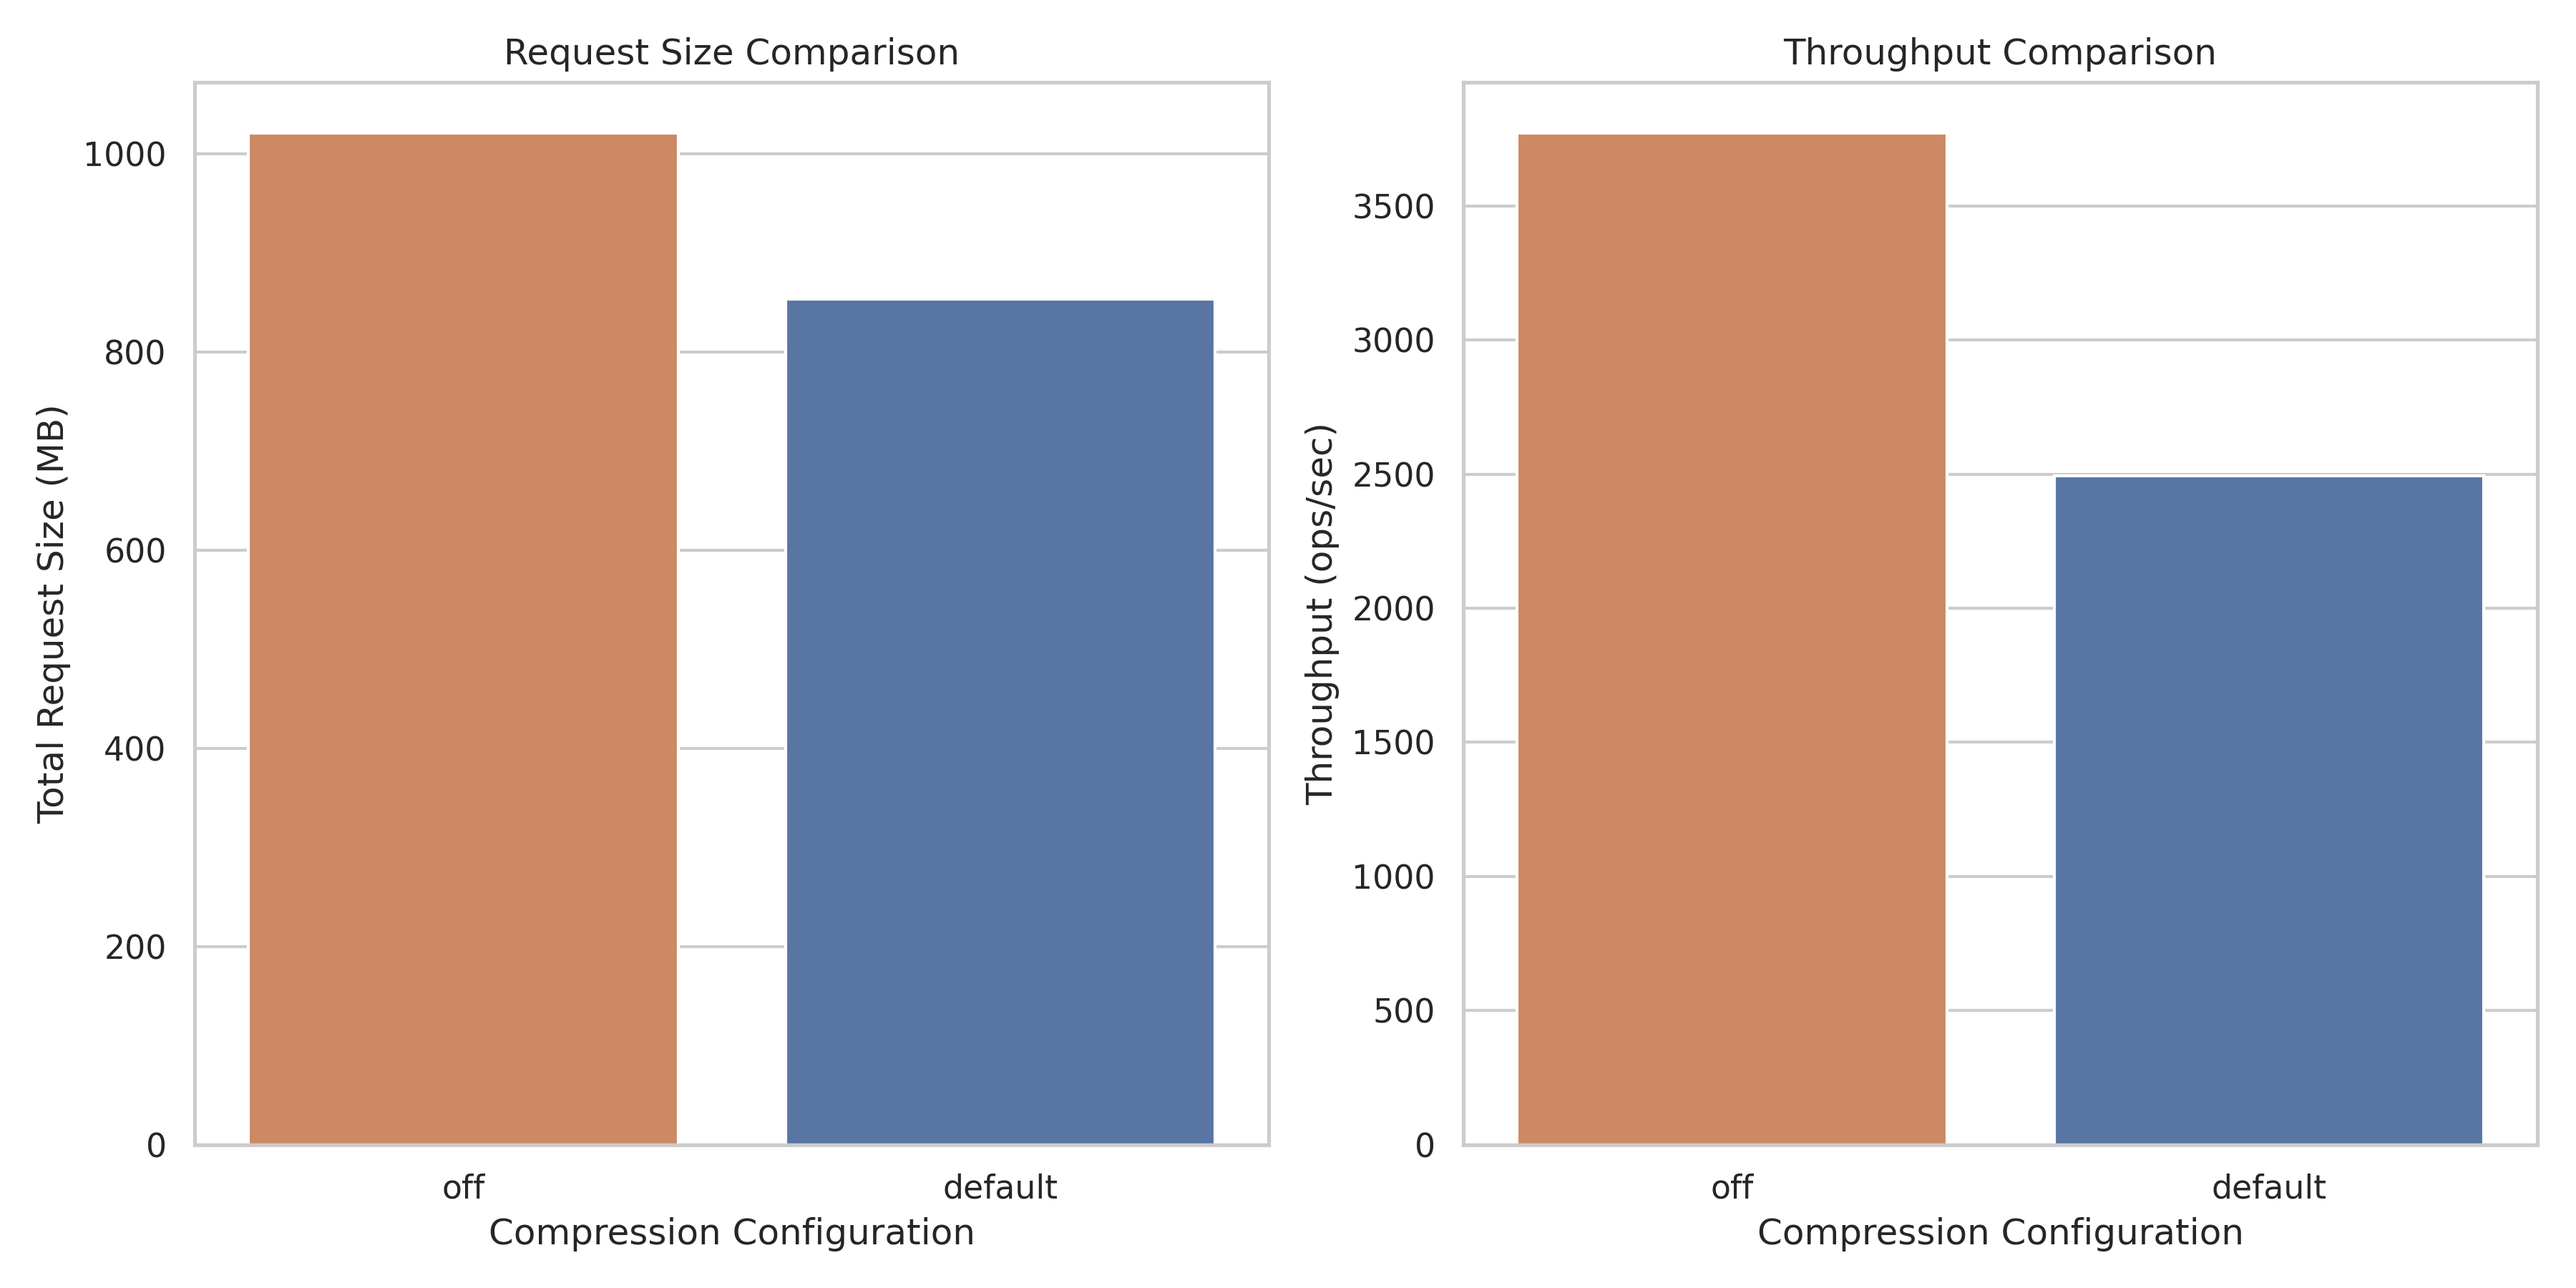
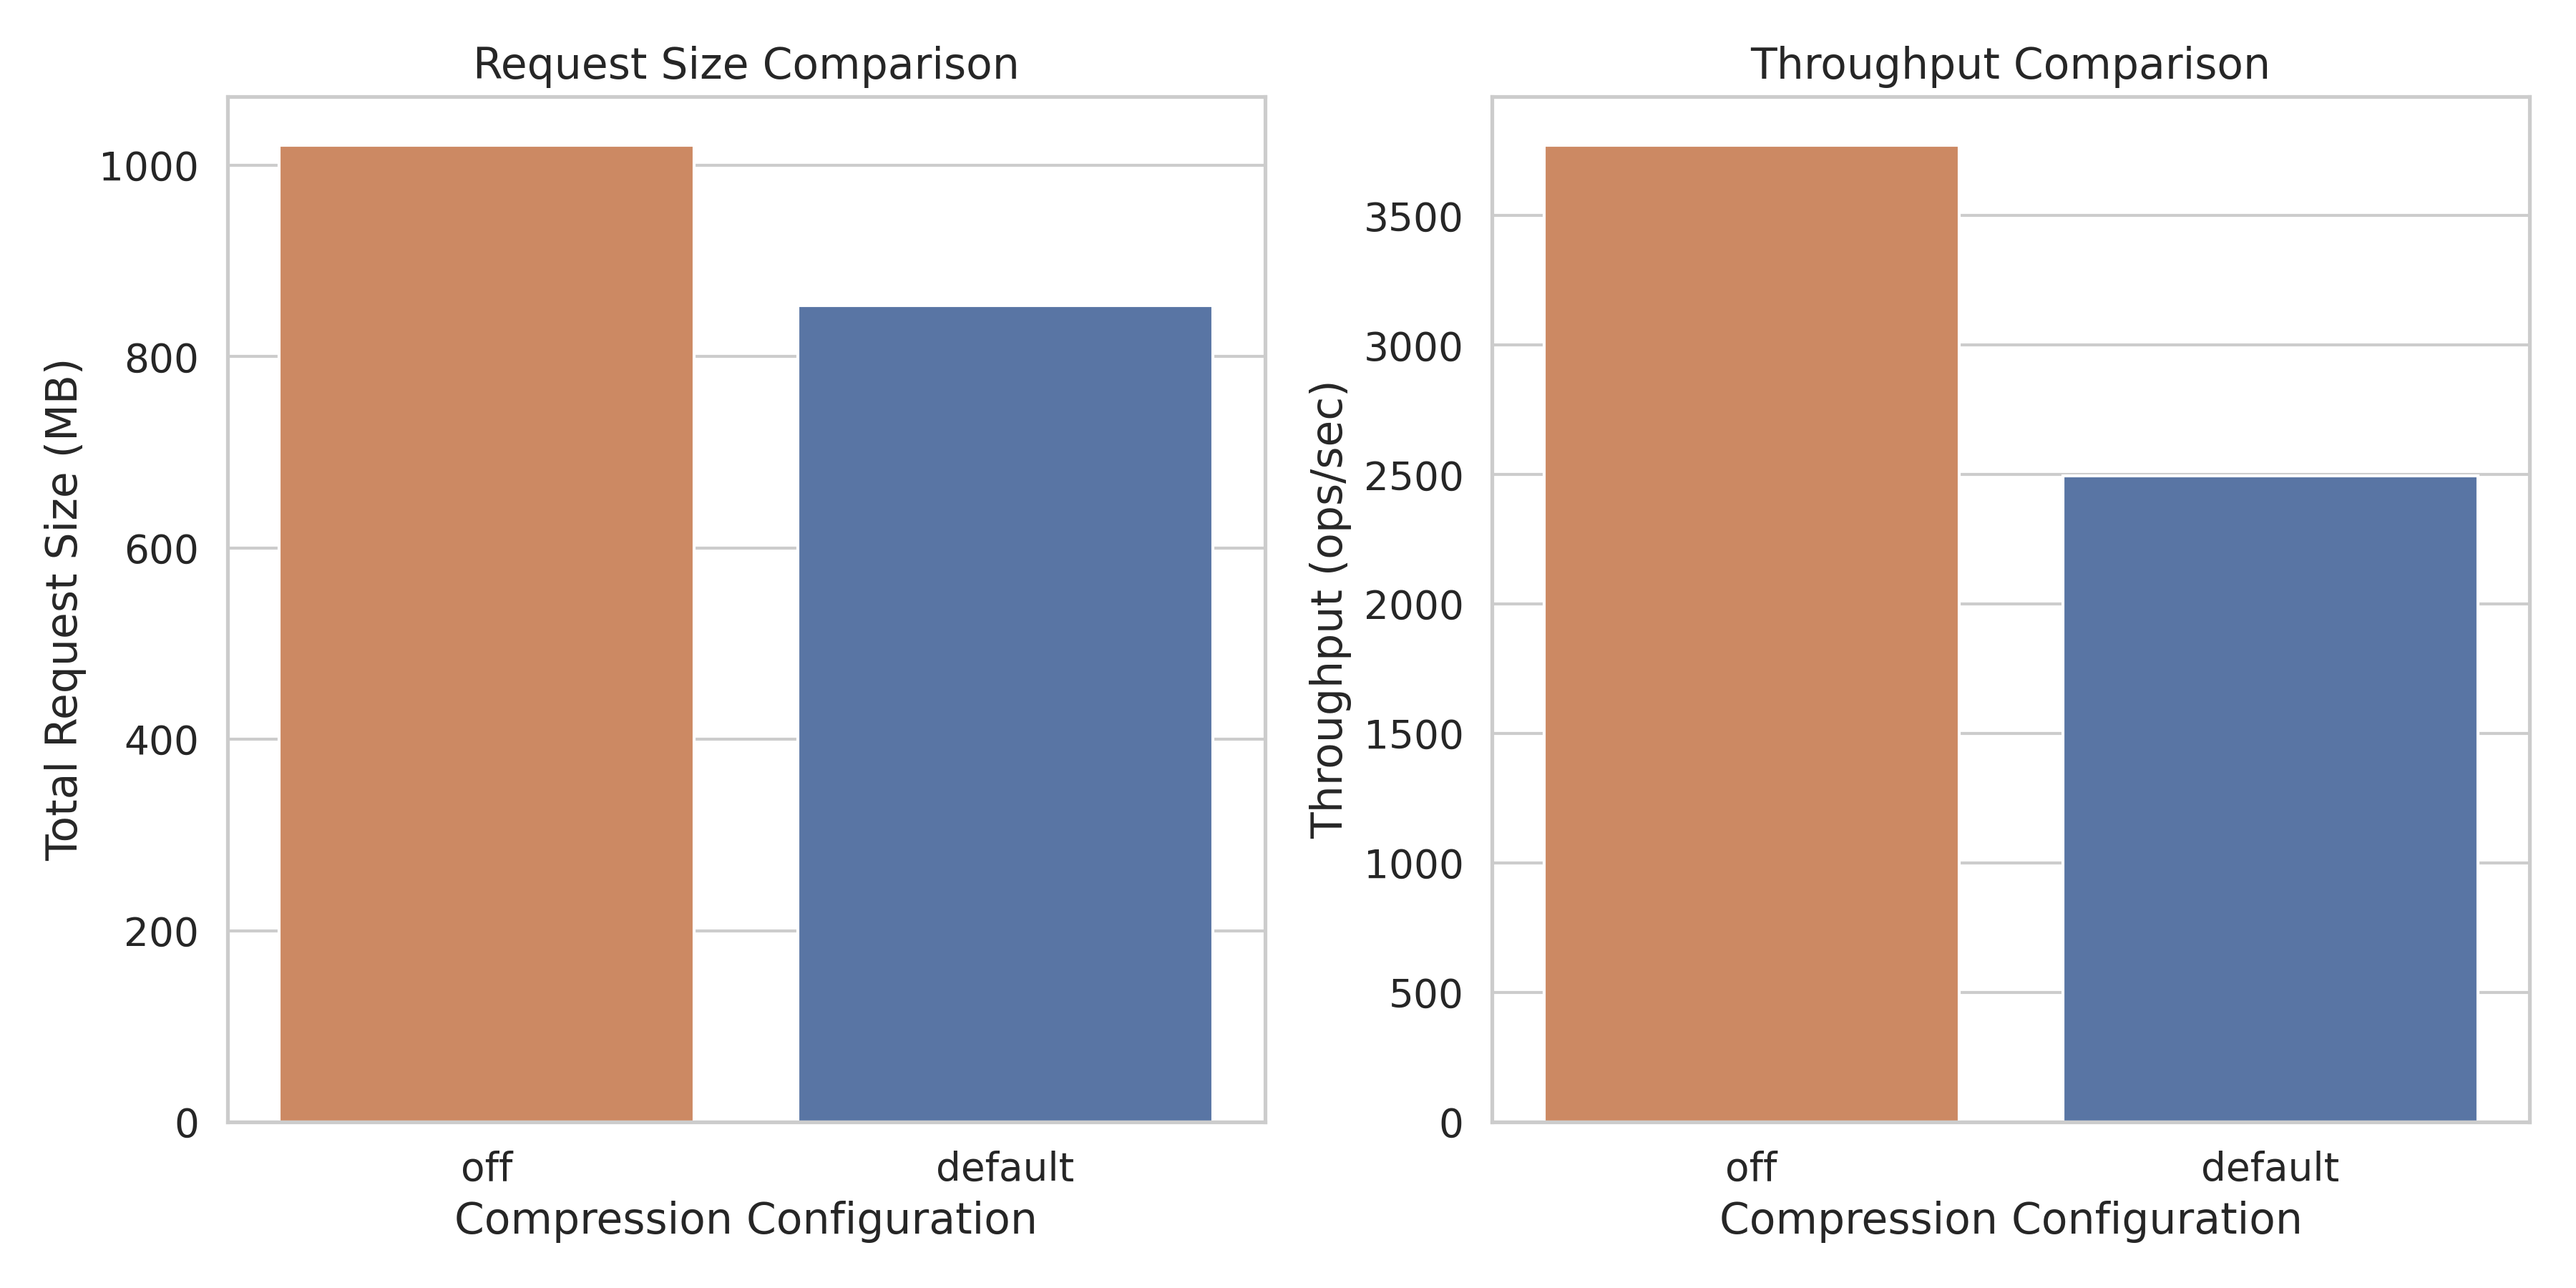
change font scale

diff --git a/scripts/graph-results.py b/scripts/graph-results.py
@@ -25,7 +25,7 @@ df['req_total_mb'] = df['req_total_bytes'] / (1024 * 1024)
 df_headers = df[df['config_name'].isin(['strip', 'no-strip'])]
 df_compression = df[df['config_name'].isin(['off', 'default'])]
 
-sns.set_theme(style="whitegrid")
+sns.set_theme(style="whitegrid", font_scale=1.2)
 base_filename = os.path.splitext(args.csv_file)[0]
 
 fig1, axes1 = plt.subplots(1, 2, figsize=(12, 6))
